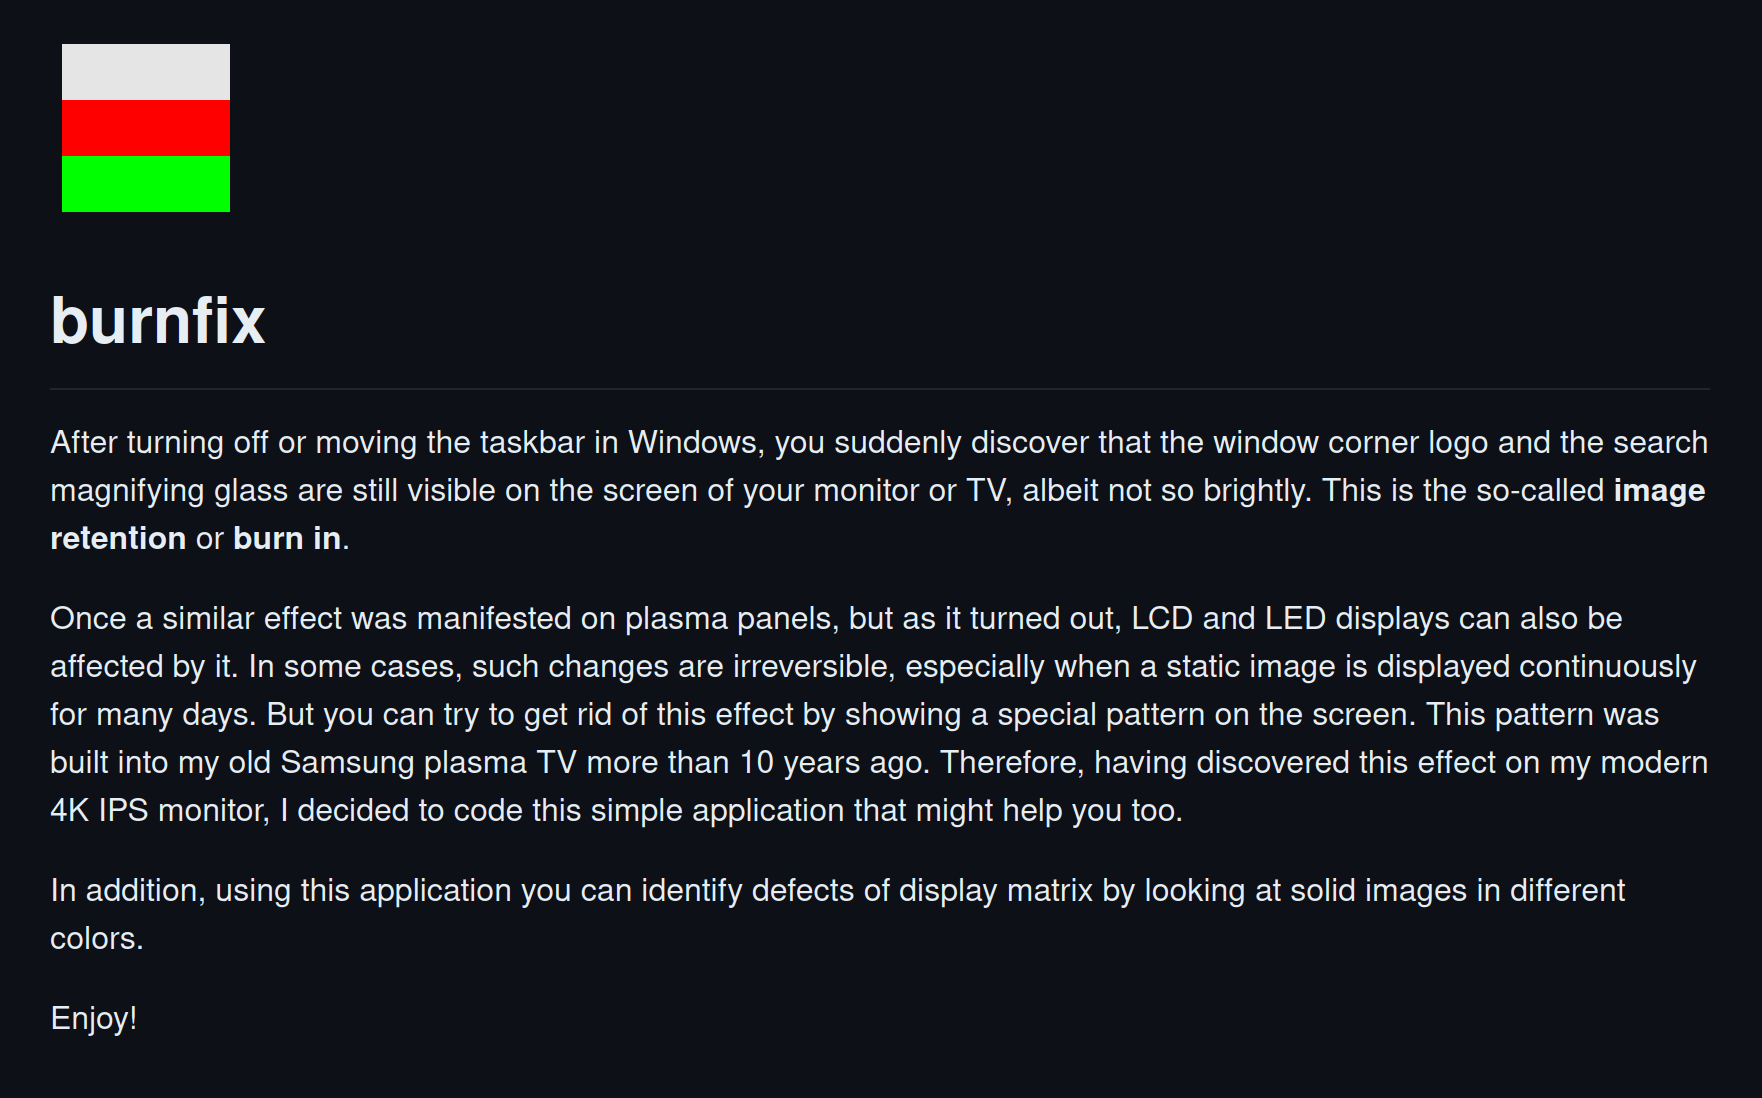
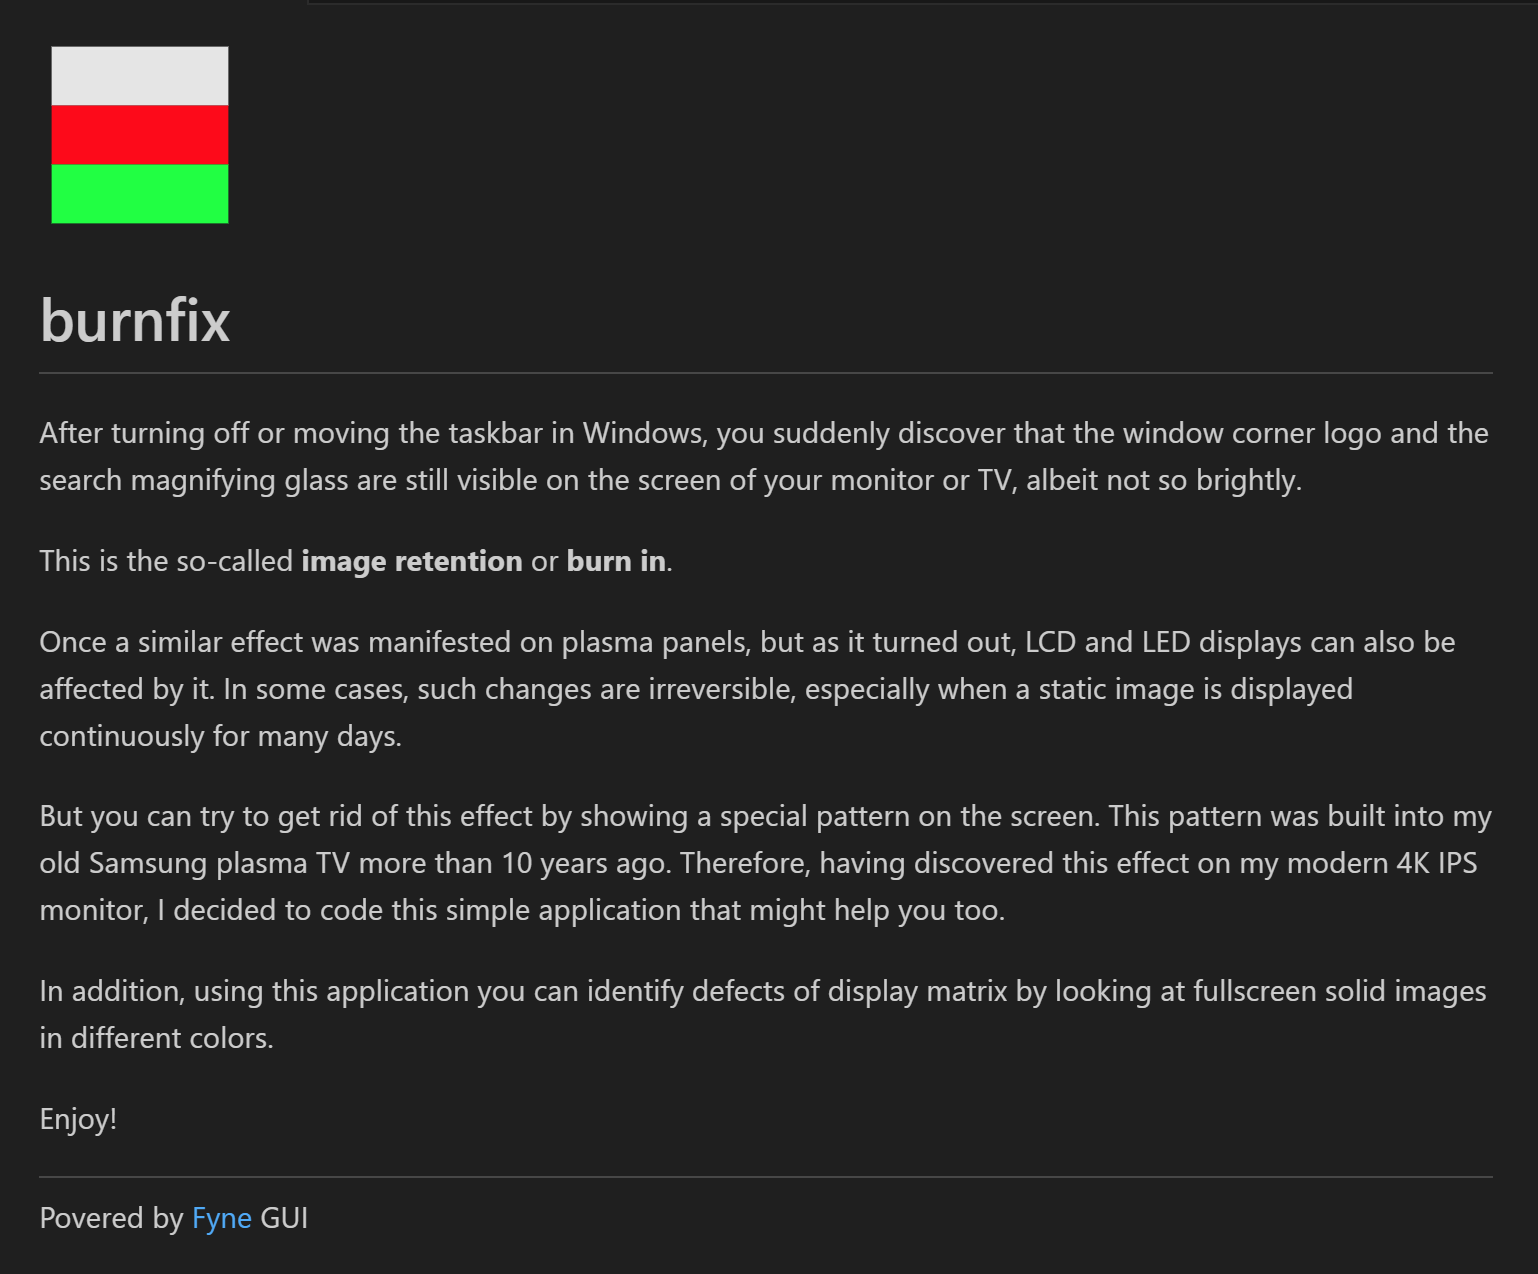
Fix github pages

Changed region(s): [[0.0312, 0.031, 0.9675, 0.9599]]

diff --git a/README.md b/README.md
@@ -1,12 +1,16 @@
-![appIcon](assets/burnfix.svg)
+![appIcon](burnfix.svg)
 
 # burnfix
 
-After turning off or moving the taskbar in Windows, you suddenly discover that the window corner logo and the search magnifying glass are still visible on the screen of your monitor or TV, albeit not so brightly. This is the so-called **image retention** or **burn in**. 
+After turning off or moving the taskbar in Windows, you suddenly discover that the window corner logo and the search magnifying glass are still visible on the screen of your monitor or TV, albeit not so brightly.  
 
-Once a similar effect was manifested on plasma panels, but as it turned out, LCD and LED displays can also be affected by it. In some cases, such changes are irreversible, especially when a static image is displayed continuously for many days. But you can try to get rid of this effect by showing a special pattern on the screen. This pattern was built into my old Samsung plasma TV more than 10 years ago. Therefore, having discovered this effect on my modern 4K IPS monitor, I decided to code this simple application that might help you too.  
+This is the so-called **image retention** or **burn in**. 
 
-In addition, using this application you can identify defects of display matrix by looking at solid images in different colors.  
+Once a similar effect was manifested on plasma panels, but as it turned out, LCD and LED displays can also be affected by it. In some cases, such changes are irreversible, especially when a static image is displayed continuously for many days.  
+
+But you can try to get rid of this effect by showing a special pattern on the screen. This pattern was built into my old Samsung plasma TV more than 10 years ago. Therefore, having discovered this effect on my modern 4K IPS monitor, I decided to code this simple application that might help you too.  
+
+In addition, using this application you can identify defects of display matrix by looking at fullscreen solid images in different colors.  
 
 Enjoy!  
  
